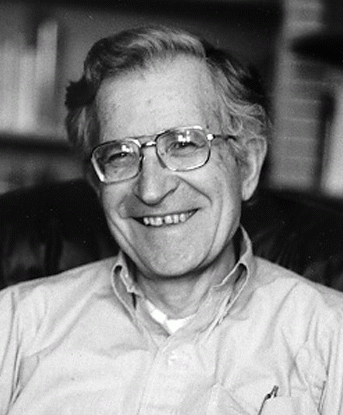
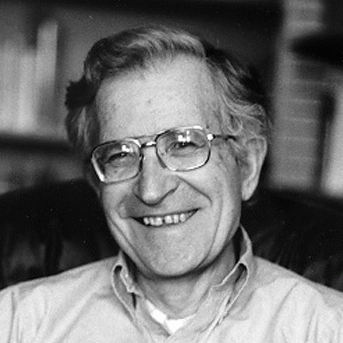
circle faces

diff --git a/assets/style.css b/assets/style.css
@@ -155,6 +155,10 @@ td {
     font-style: italic;
 }
 
+.circle img {
+    border-radius: 50%;
+}
+
 
 /* Title slide */
 

diff --git a/lecture1.md b/lecture1.md
@@ -19,10 +19,9 @@ class: middle, center
 .gallery[
 ![](figures/lec1/r2d2.jpg)
 ![](figures/lec1/terminator.jpg)
-![](figures/lec1/hal9000.jpg)
+
 ![](figures/lec1/exmachina.jpg)
 ![](figures/lec1/smith.jpg)
-![](figures/lec1/westworld.jpg)
 ]
 
 ---
@@ -69,7 +68,7 @@ a computer.
 ![The Turing test](figures/lec1/turing-test.jpg)
 ]
 .col-1-3.center[
-![Alan Turing](figures/lec1/alan-turing.jpg)
+.circle[![Alan Turing](figures/lec1/alan-turing.jpg)]
 .caption[*Can machines think?* (Alan Turing, 1950).]
 ]
 ]
@@ -142,7 +141,7 @@ linguistic input alone.
 for language, i.e. *biological prewiring*.
 ]
 .col-1-3.center[
-![Noam Chomsky](figures/lec1/chomsky.png)
+.circle[![Noam Chomsky](figures/lec1/chomsky.png)]
 .caption[*How do we know what we know?* (Noam Chomsky, 1980).]
 ]
 ]
@@ -720,6 +719,12 @@ of its outcomes.
     - learning how the world evolves;
     - learning what are the consequences of actions;
     - learning the utility of actions through *rewards*.
+
+---
+
+# Learning agents
+
+XXX: elaborate more about learning agents.
 
 ---
 
